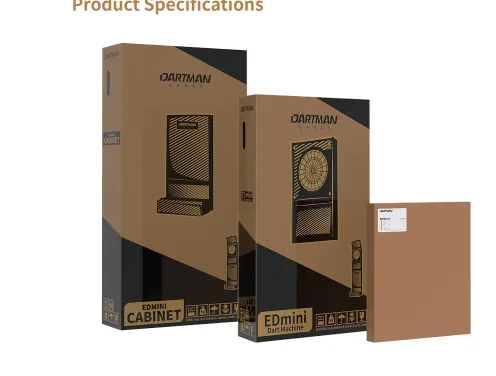
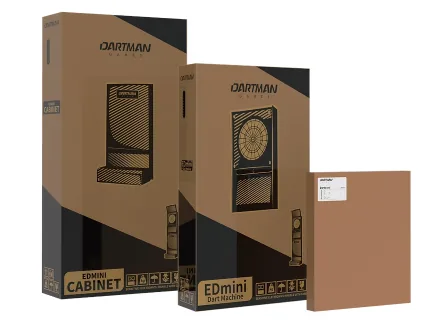
Client 13.11: remove empty space under hero and For players, uncut packaging photo

diff --git a/recommended/space/index.html b/recommended/space/index.html
@@ -243,7 +243,7 @@
   <div class="u-w u-c"><p class="u-eb">Packaging &amp; dimensions</p><h2 class="u-h64" id="u-pk-t">Ships flat. Stands tall.</h2></div>
   <div class="u-w u5-pack-grid">
     <figure class="u5-pack-card"><img src="/anas-dartman/assets/img/real/max-dims-715.webp" alt="EDmini Max dimension drawing: front, both sides and back. 231 cm high, 58 cm wide, 35 cm deep" loading="lazy" width="715" height="427"><figcaption><b>EDmini Max</b><span>231 cm high · 58 cm wide · 35 cm deep</span></figcaption></figure>
-    <figure class="u5-pack-card"><img src="/anas-dartman/assets/img/c1111/pack-cartons-1000.webp" srcset="/anas-dartman/assets/img/c1111/pack-cartons-600.webp 600w, /anas-dartman/assets/img/c1111/pack-cartons-1000.webp 1000w" sizes="(max-width:734px) 90vw, 420px" alt="EDmini Max cartons: cabinet, EDmini and screen" loading="lazy">
+    <figure class="u5-pack-card"><img src="/anas-dartman/assets/img/c1111/pack-cartons-600.webp" width="430" height="335" alt="EDmini Max cartons: cabinet, EDmini and screen" loading="lazy">
       <dl class="u5-pack-dl">
         <div><dt>1 · Cabinet</dt><dd>132 × 65 × 20 cm</dd><dd>G.W. / N.W. 30 / 28 kg</dd></div>
         <div><dt>2 · EDmini</dt><dd>106 × 65 × 20 cm</dd><dd>G.W. / N.W. 33 / 30 kg</dd></div>

diff --git a/css/u5.css b/css/u5.css
@@ -557,3 +557,11 @@ body.gn-on .u6-turn .u-turn-pin{top:100px!important;height:calc(100vh - 100px)!i
 .u-sec.u-light .u6-stats span,.u-sec.u-white .u6-stats span{color:#6e6e73}
 .u-sec.u-light .u-h48,.u-sec.u-white .u-h48,.u-sec.u-light .u-h64,.u-sec.u-white .u-h64{color:#1d1d1f}
 @media (max-width:734px){.u6-b:not(.full){min-height:0}.u6-b.full{min-height:300px}}
+/* client 13.11: no empty band under the For-players photo; idea section not forced to a full screen */
+.u4 .u6-players .u-chap-hero{height:auto!important;max-height:none!important}
+@media (min-width:735px){.u4 .u6-players .u-chap-hero img{height:min(620px,calc(100vh - 52px))!important;max-height:none!important}}
+@media (max-width:734px){.u4 .u6-players .u-chap-hero img{max-height:none!important}}
+.u4 .u6-players .u-say-note{margin-top:48px}
+.u4 .u-chap2 .u-intro2:has(.u5-idea){min-height:0!important;max-height:none!important}
+.u4 .u-chap2:has(.u5-idea){padding-top:clamp(56px,8vh,96px)!important;padding-bottom:clamp(56px,8vh,96px)!important}
+.u4 .u-chap2 .u-intro2:has(.u5-idea) .u-intro2-t{padding-top:0!important}
